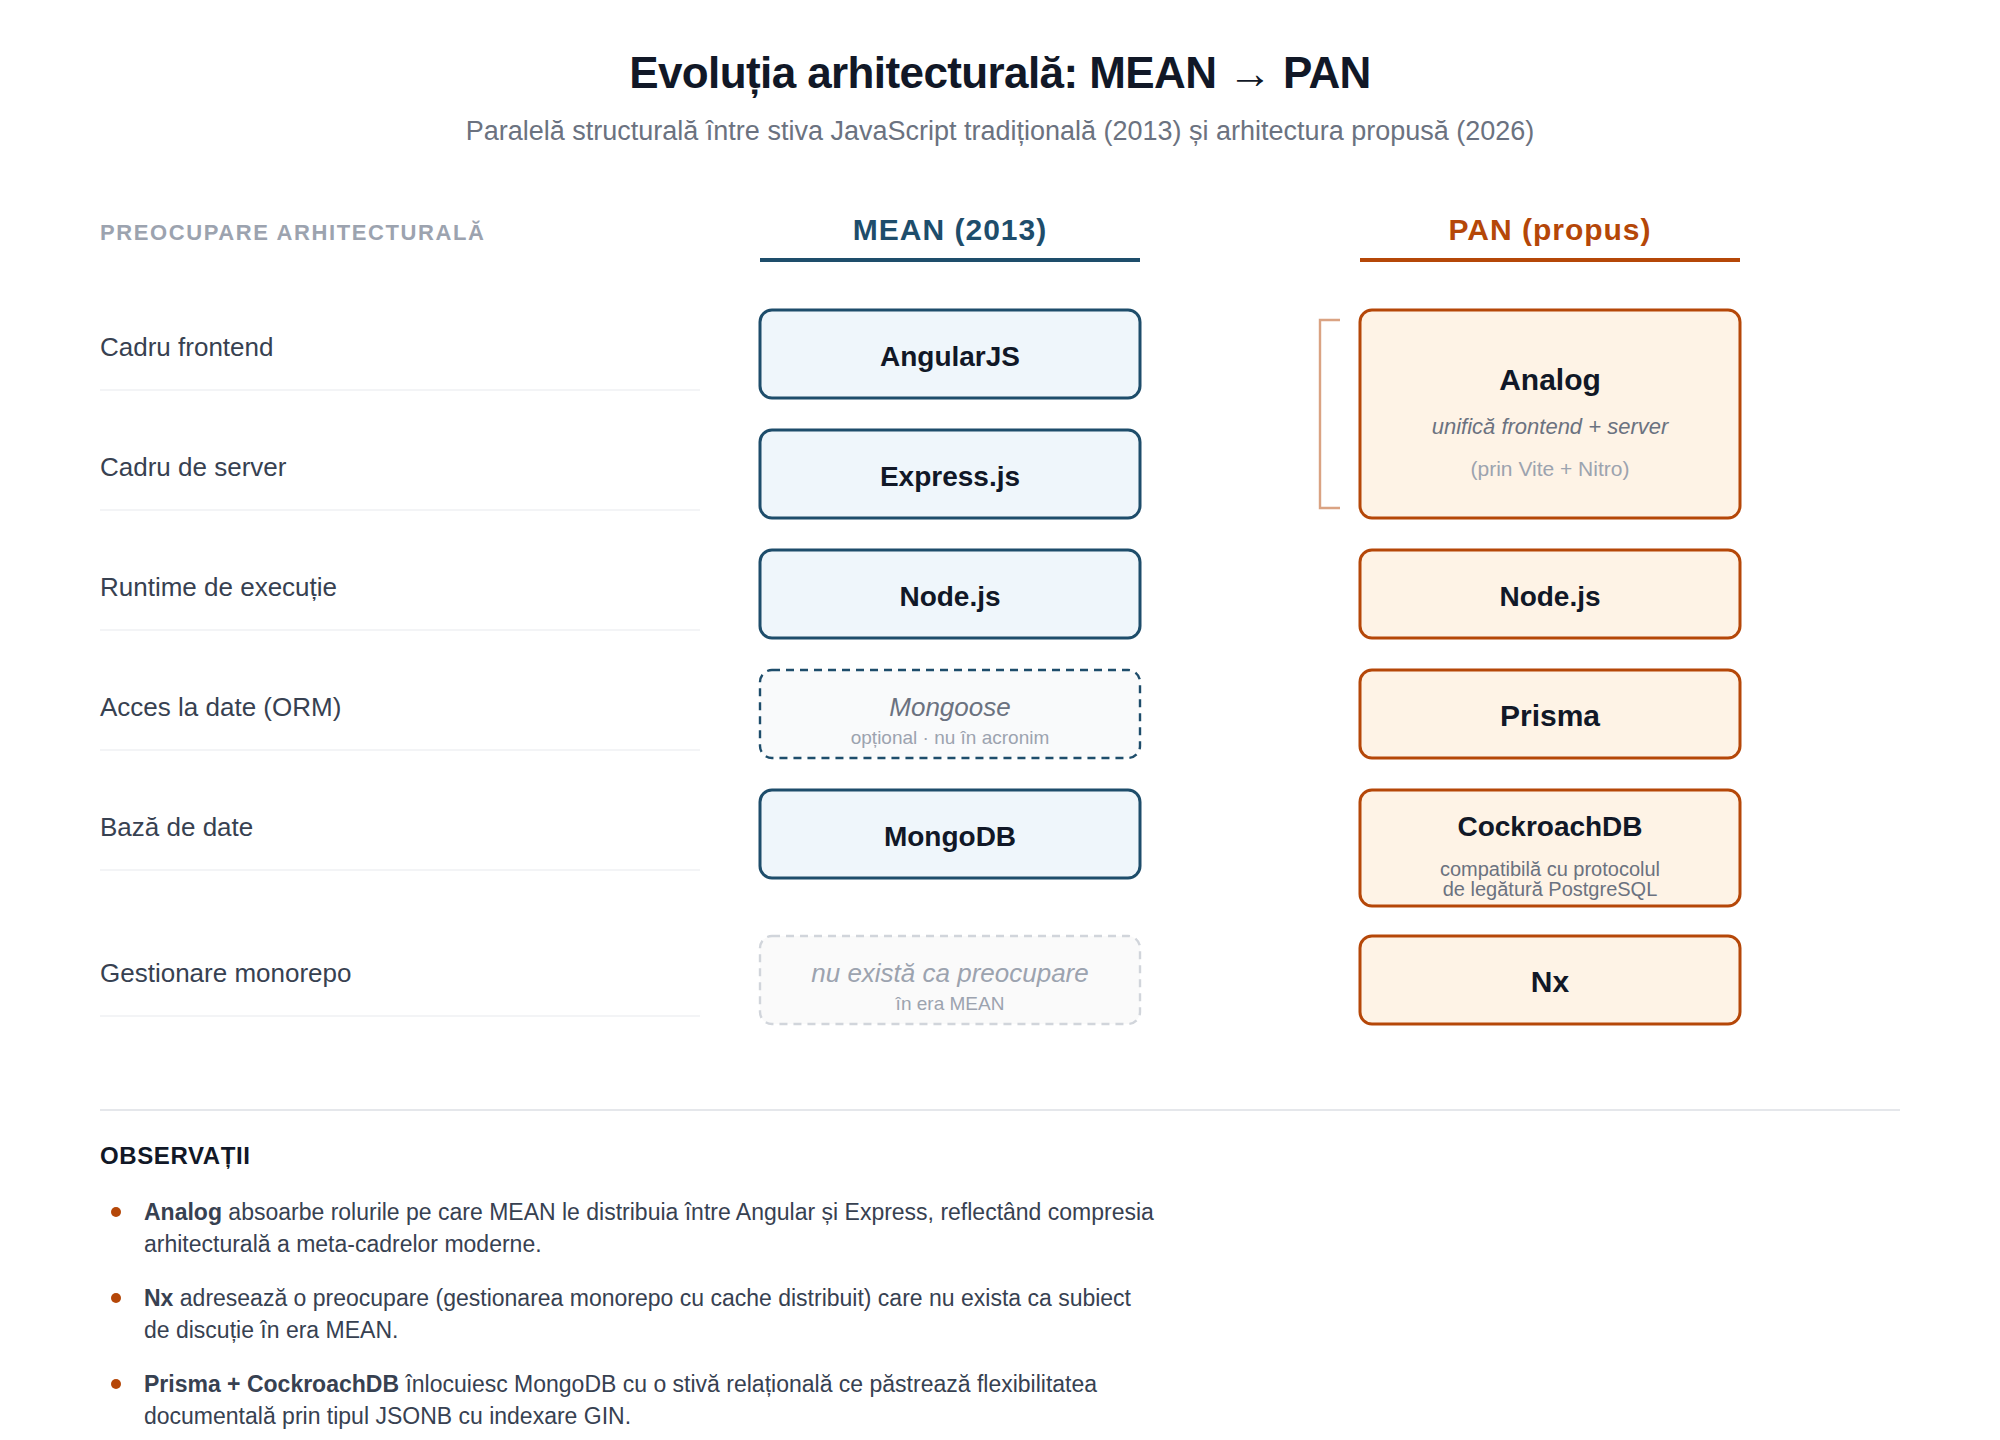
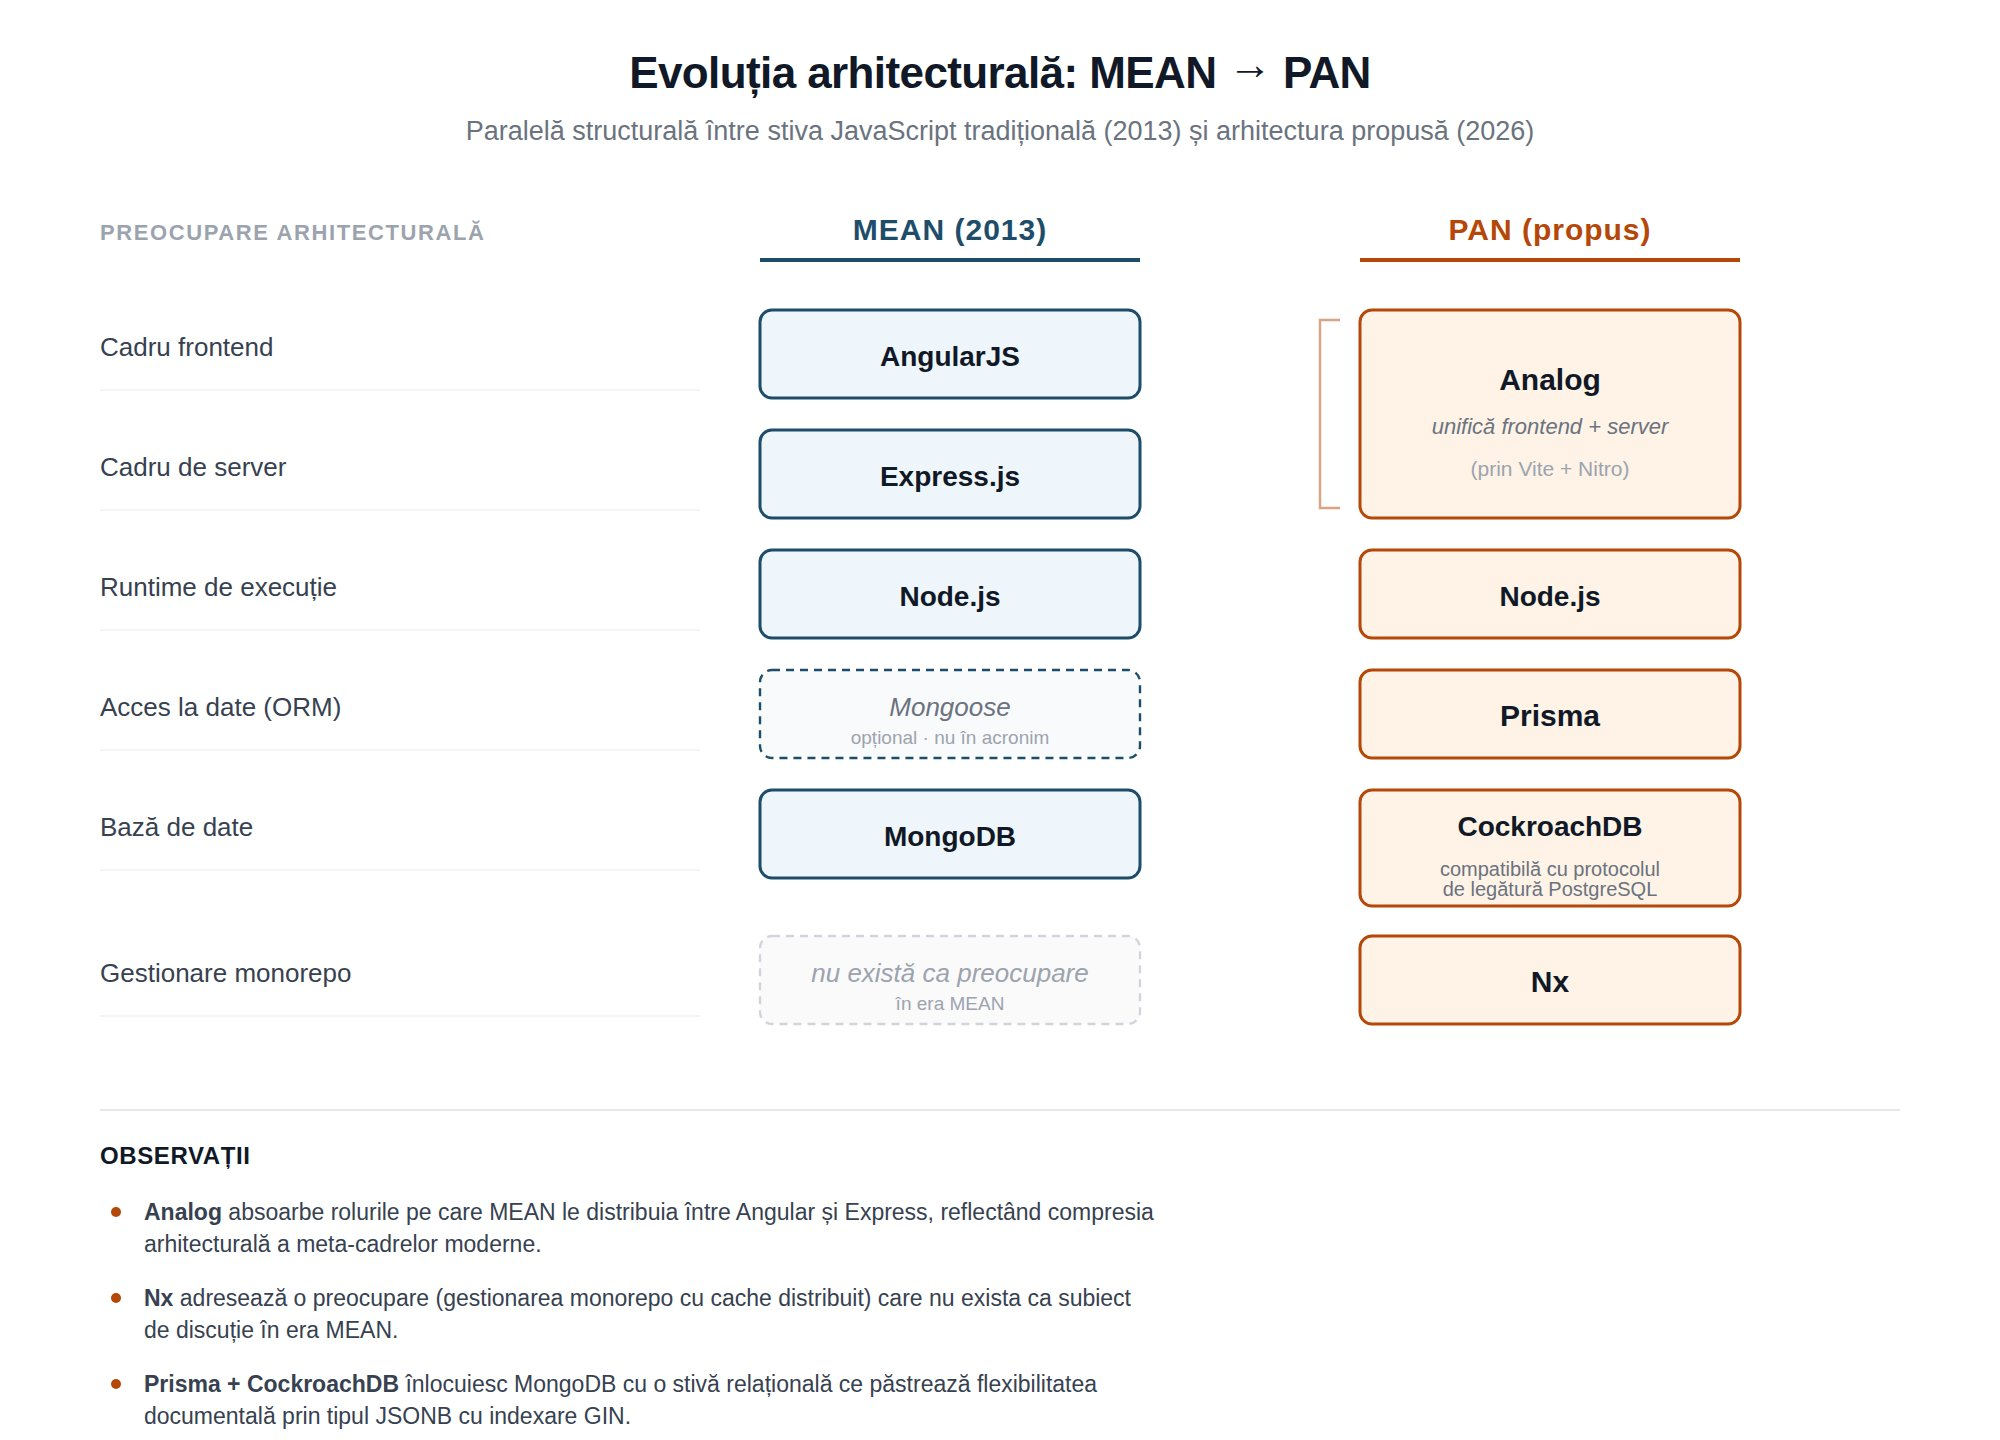
chore(thesis): ignore .DS_Store, bump Node requirement, refresh diagram
Add .DS_Store to .gitignore (macOS finder noise). Bump the documented
Node.js requirement to >= 20.19.0. Re-export the mean-vs-pan diagram at
higher quality.

diff --git a/README.md b/README.md
@@ -14,7 +14,7 @@ Kookio: A Modular Full-Stack Gastronomic Service Built on the PAN Architecture (
 | Tool | Purpose | How to Install |
 |------|---------|----------------|
 | **LuaLaTeX** (via TeX Live, MacTeX, or MikTeX) | Compile thesis in LaTeX | See [LaTeX Installation](#-latex-installation) below |
-| **Node.js** ≥ 20.11.1 + **npm** | Run TypeScript build scripts and research tools | [nodejs.org](https://nodejs.org) |
+| **Node.js** ≥ 20.19.0 + **npm** | Run TypeScript build scripts and research tools | [nodejs.org](https://nodejs.org) |
 | **TheMealDB** | Open, crowd-sourced recipe database | Premium API key $10 lifetime — [themealdb.com](https://www.themealdb.com) |
 
 ### 📌 LaTeX Installation
